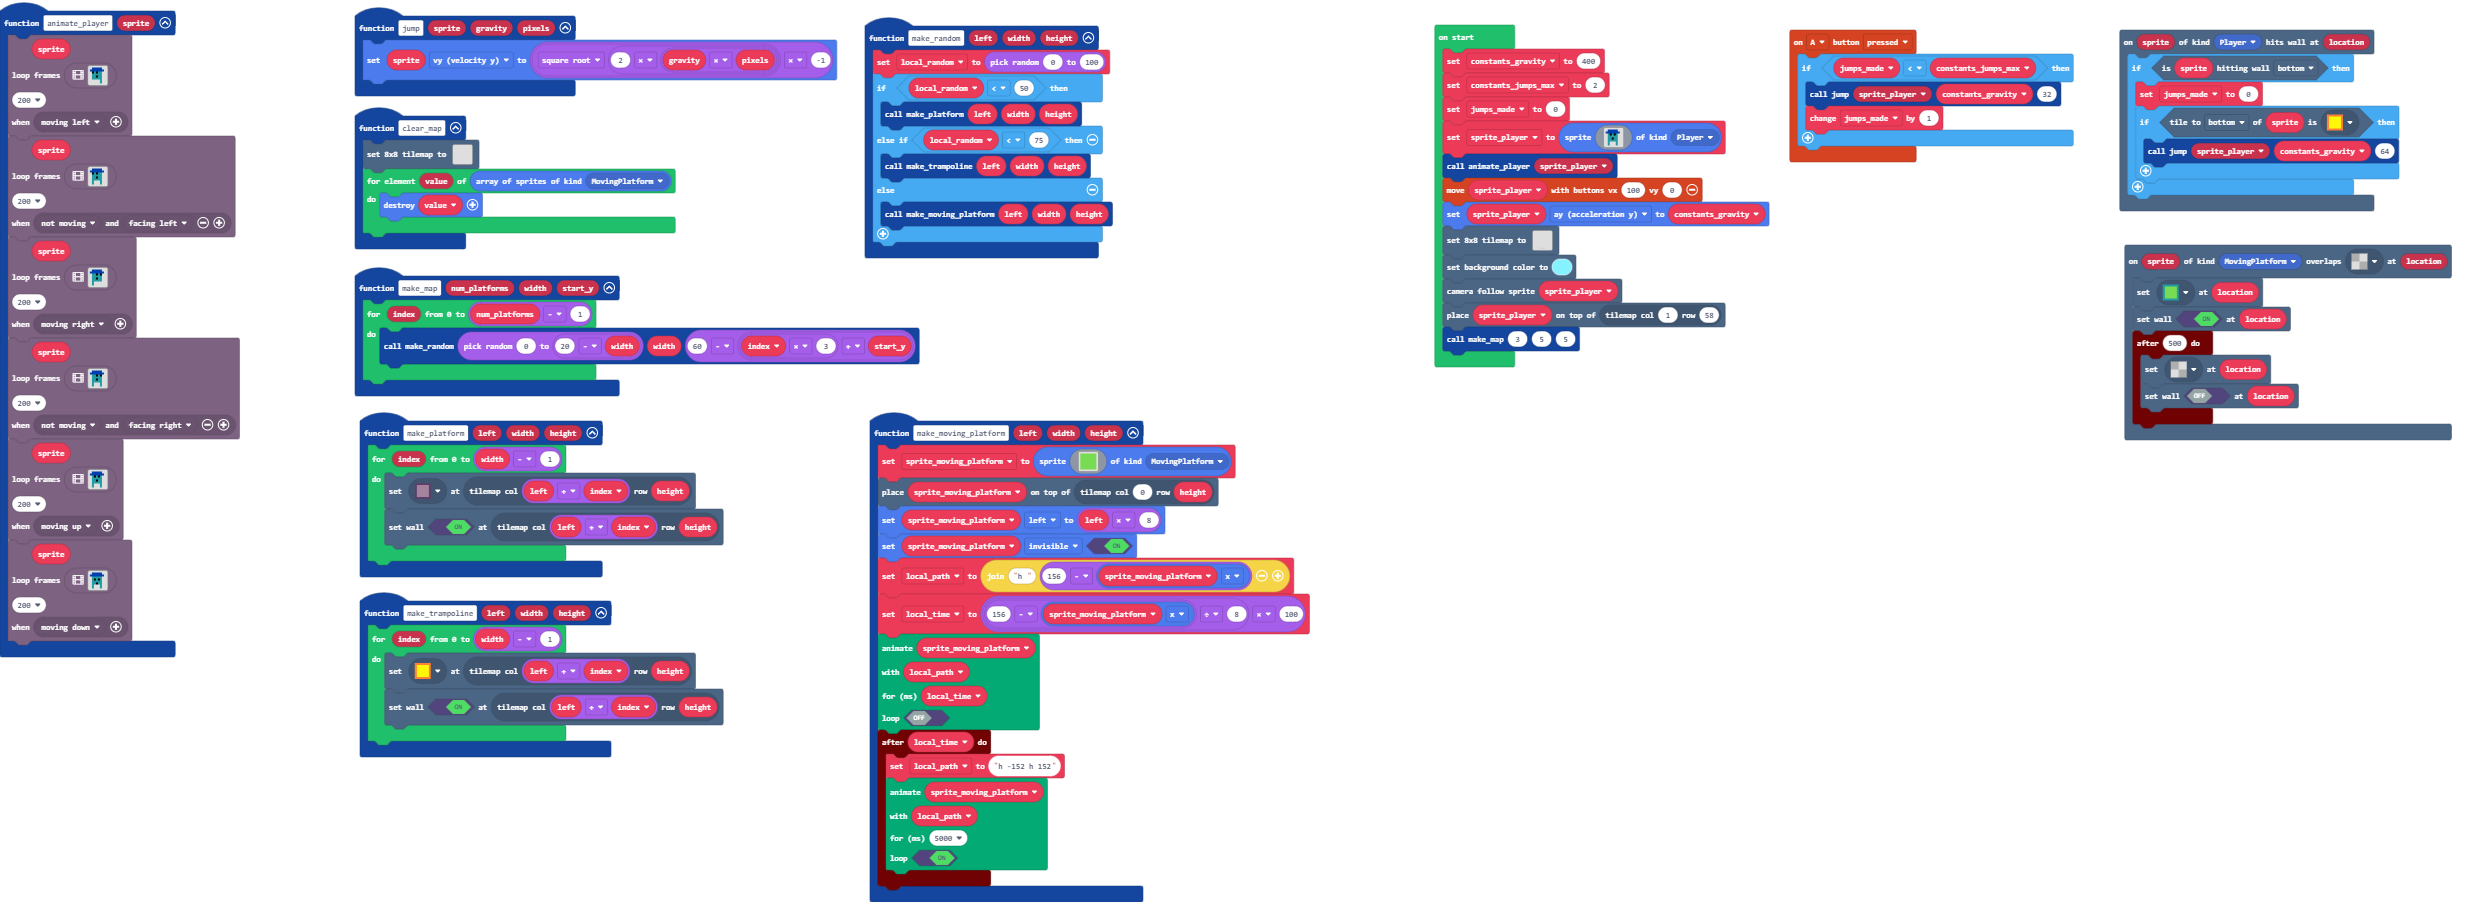
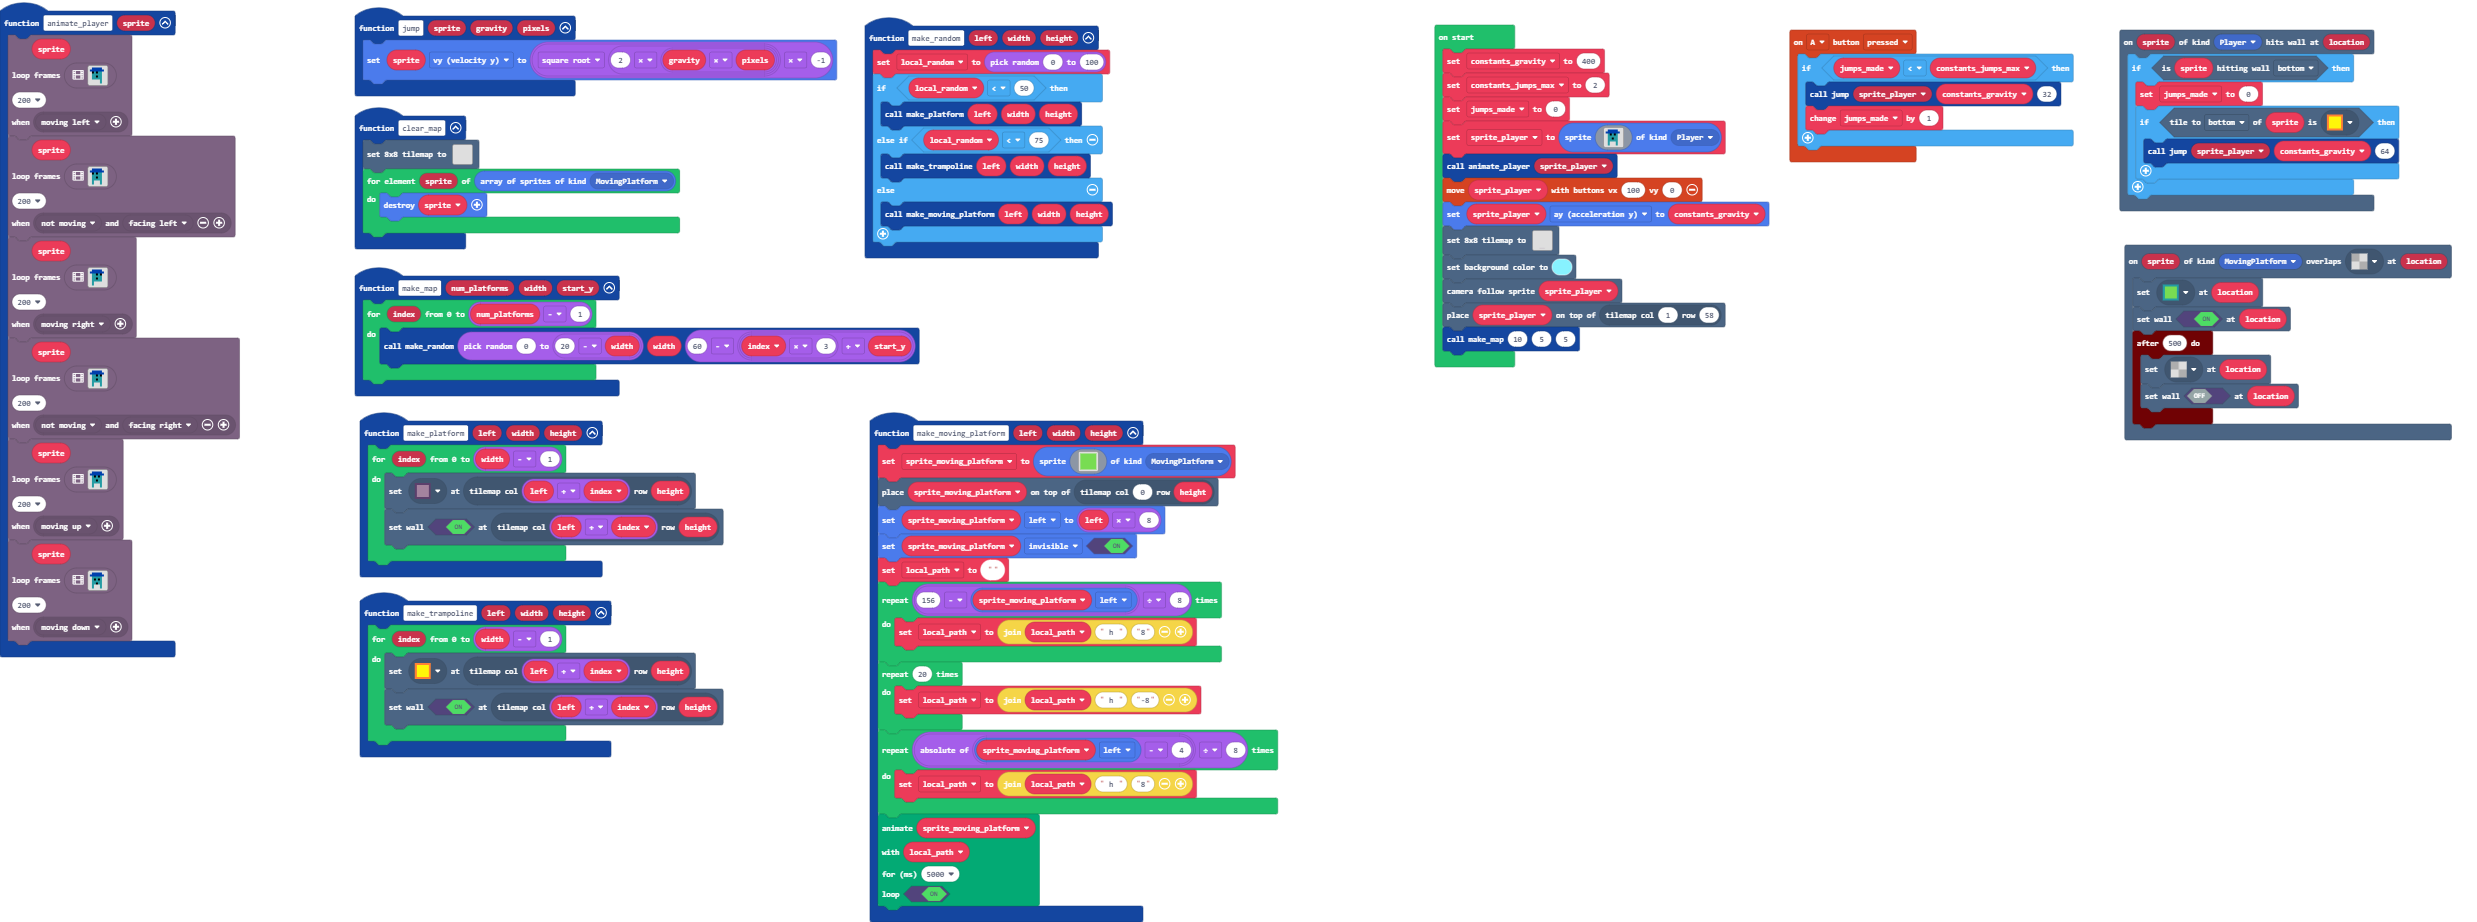
Fix moving platforms

diff --git a/main.ts b/main.ts
@@ -90,8 +90,8 @@ function clear_map () {
         ....................
         ....................
         `, [myTiles.transparency8], TileScale.Eight))
-    for (let value of sprites.allOfKind(SpriteKind.MovingPlatform)) {
-        value.destroy()
+    for (let sprite of sprites.allOfKind(SpriteKind.MovingPlatform)) {
+        sprite.destroy()
     }
 }
 scene.onOverlapTile(SpriteKind.MovingPlatform, myTiles.transparency8, function (sprite, location) {
@@ -232,37 +232,31 @@ function animate_player (sprite: Sprite) {
 }
 function make_moving_platform (left: number, width: number, height: number) {
     sprite_moving_platform = sprites.create(img`
-        7 7 7 7 7 7 7 7 
-        7 7 7 7 7 7 7 7 
-        7 7 7 7 7 7 7 7 
-        7 7 7 7 7 7 7 7 
-        7 7 7 7 7 7 7 7 
-        7 7 7 7 7 7 7 7 
-        7 7 7 7 7 7 7 7 
-        7 7 7 7 7 7 7 7 
+        7 7 7 7 
+        7 7 7 7 
+        7 7 7 7 
+        7 7 7 7 
         `, SpriteKind.MovingPlatform)
     tiles.placeOnTile(sprite_moving_platform, tiles.getTileLocation(0, height))
     sprite_moving_platform.left = left * 8
     sprite_moving_platform.setFlag(SpriteFlag.Invisible, true)
-    local_path = "h " + (156 - sprite_moving_platform.x)
-    local_time = (156 - sprite_moving_platform.x) / 8 * 100
+    local_path = ""
+    for (let index = 0; index < (156 - sprite_moving_platform.left) / 8; index++) {
+        local_path = "" + local_path + " h " + "8"
+    }
+    for (let index = 0; index < 20; index++) {
+        local_path = "" + local_path + " h " + "-8"
+    }
+    for (let index = 0; index < Math.abs(sprite_moving_platform.left - 4) / 8; index++) {
+        local_path = "" + local_path + " h " + "8"
+    }
     animation.runMovementAnimation(
     sprite_moving_platform,
     local_path,
-    local_time,
-    false
+    5000,
+    true
     )
-    timer.after(local_time, function () {
-        local_path = "h -152 h 152"
-        animation.runMovementAnimation(
-        sprite_moving_platform,
-        local_path,
-        5000,
-        true
-        )
-    })
 }
-let local_time = 0
 let local_path = ""
 let sprite_moving_platform: Sprite = null
 let local_random = 0
@@ -351,4 +345,4 @@ tiles.setSmallTilemap(tiles.createTilemap(hex`14003c0000000000000000000000000000
 scene.setBackgroundColor(9)
 scene.cameraFollowSprite(sprite_player)
 tiles.placeOnTile(sprite_player, tiles.getTileLocation(1, 58))
-make_map(3, 5, 5)
+make_map(10, 5, 5)
